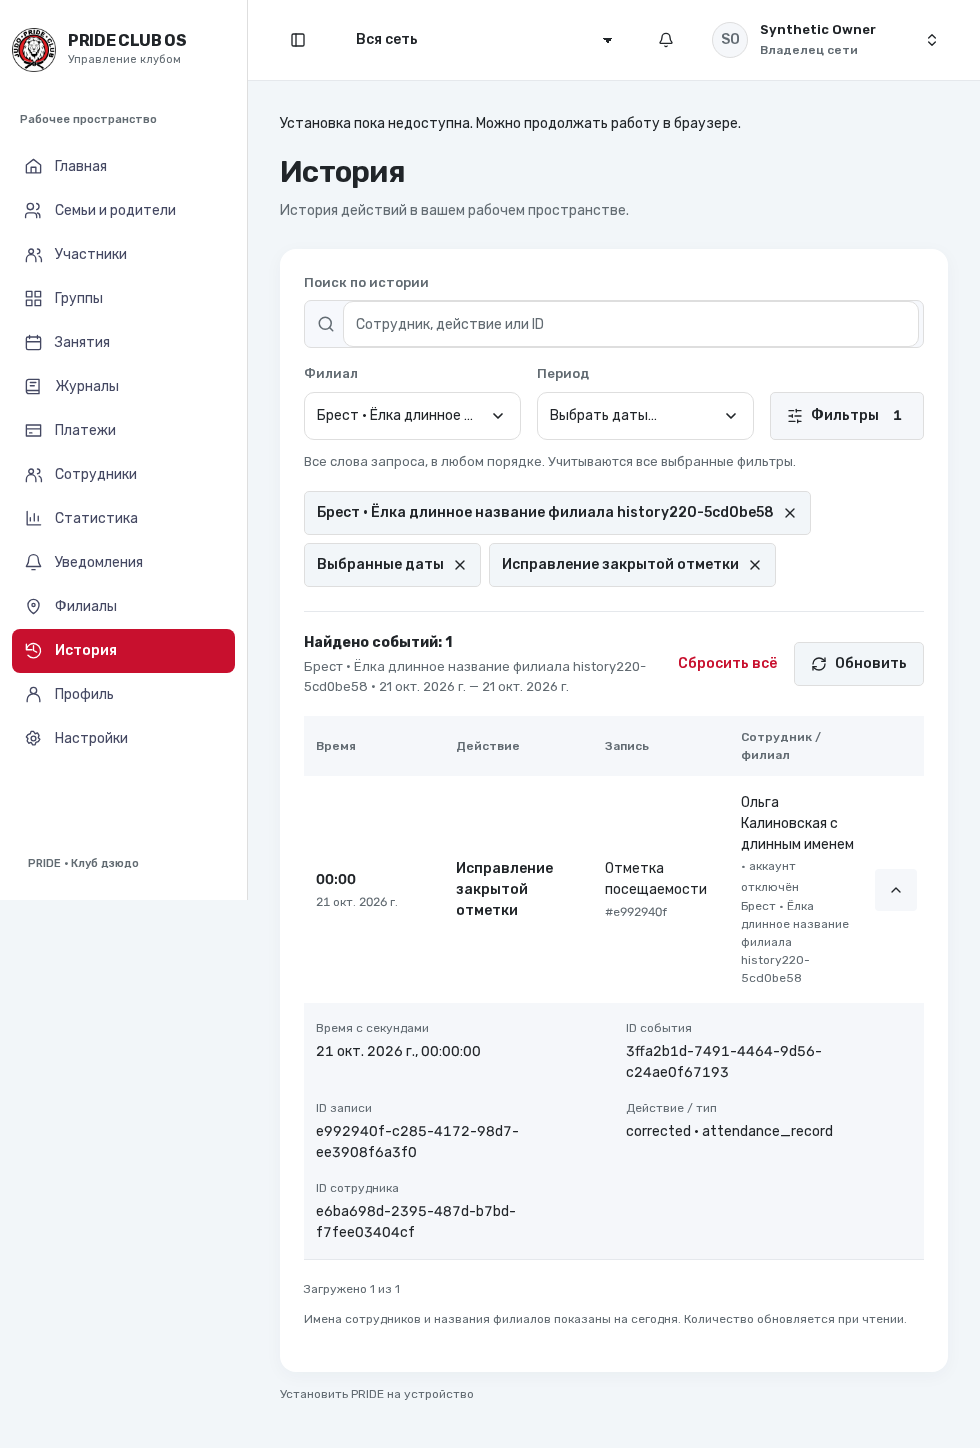
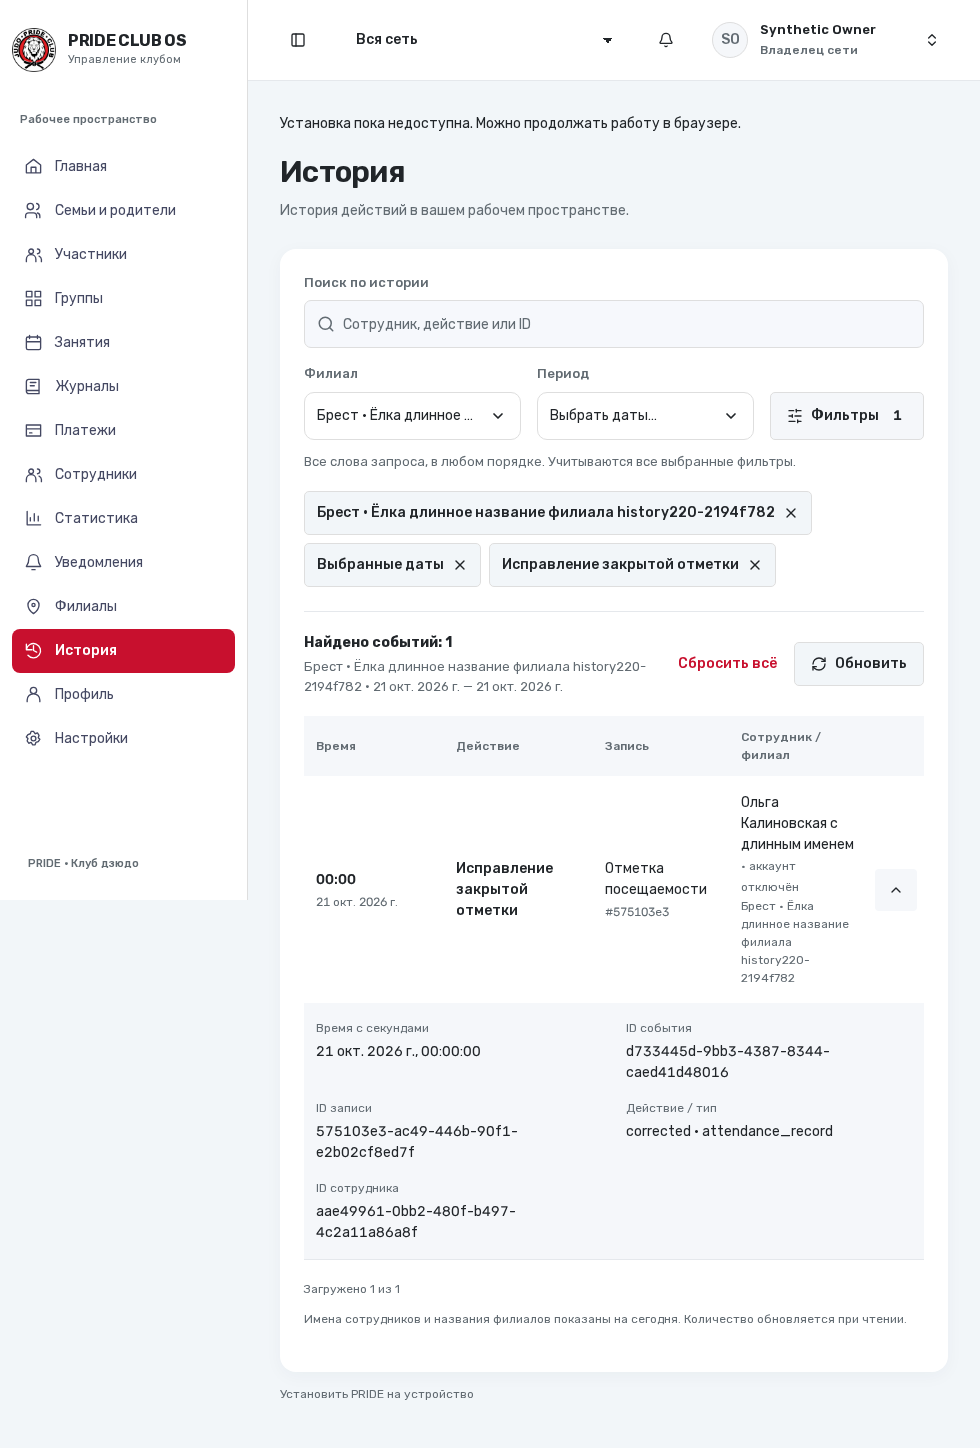
fix(audit): keep one search field and record final browser evidence

diff --git a/frontend/src/features/audit/audit.css b/frontend/src/features/audit/audit.css
@@ -9,7 +9,7 @@
 .audit-history input::placeholder { color: var(--pride-text-secondary); opacity: 1; }
 .audit-search-field { display: flex; align-items: center; height: 48px; min-width: 0; gap: 8px; padding: 0 4px 0 12px; border: 1px solid var(--pride-border); border-radius: 7px; background: var(--pride-surface-search, var(--pride-surface-subtle)); color: var(--pride-text-secondary); }
 .audit-search-field > svg { width: 18px; height: 18px; flex-shrink: 0; }
-.audit-history .audit-search-field input { appearance: none; -webkit-appearance: none; height: 46px; min-height: 46px; padding: 10px 0; width: 0; flex: 1; border: 0; border-radius: 0; background: transparent; box-shadow: none; }
+.audit-history .audit-search-field input[type='search'] { appearance: none; -webkit-appearance: none; height: 46px; min-height: 46px; padding: 10px 0; width: 0; flex: 1; border: 0; border-radius: 0; background: transparent; box-shadow: none; }
 .audit-history .audit-search-field input:focus-visible { outline: none; box-shadow: none; }
 .audit-search-field:focus-within { outline: 2px solid var(--pride-brand); outline-offset: 3px; }
 .audit-search-field input::-webkit-search-cancel-button { appearance: none; -webkit-appearance: none; }

diff --git a/frontend/e2e/history_search.py b/frontend/e2e/history_search.py
@@ -137,6 +137,8 @@ try:
         audit.get_by_role('button',name='Подробнее о событии #'+target,exact=True).click()
         expect(audit.locator('.audit-detail-row')).to_contain_text(target)
         assert 'PRIVATE' not in audit.inner_text()
+        assert search.evaluate('n=>getComputedStyle(n).borderTopWidth')=='0px'
+        assert search.locator('..').evaluate('n=>n.getBoundingClientRect().height')==48
         assert audit.locator('.audit-details-toggle svg').first.evaluate('n=>getComputedStyle(n).transitionDuration')=='0s'
         # One batched visual/a11y pass, open/closed filters at all required widths.
         metrics=[]

diff --git a/docs/history-search-validation.md b/docs/history-search-validation.md
@@ -80,4 +80,13 @@ jsErrors=[]. [Снимки и измерения](../.impeccable/review/history2
 late responses/live revoke. В первой WebKit попытке новый harness установил hold
 до завершения предыдущего date request, заблокировав refresh; теперь ожидает
 строки/готовую кнопку до установки hold. Assertion/timeouts/retries не ослаблены.
-Финальные WebKit RD-04 и CI/main фиксируются при доставке; issue пока открыта.
+Адаптированный RD-04 WebKit26.5 также PASS; исходные неуспешные попытки сохранены.
+После retry harness ожидает исчезновение alert (завершённый успешный ответ),
+а не уже показанный пустой результат. Итоговые CI/main фиксируются при доставке.
+
+Точная доставка/CI и live завершение публикуются в [#220](https://github.com/NikishGum/JudeOSLite/issues/220).
+[Хеши production-исходников/метаданные](../.impeccable/review/history220/source-hashes.json)
+и [хеши доказательств](../.impeccable/review/history220/checksums.json) связывают
+последний пакет с кодом. После последней CSS-поправки отдельные shipping прогоны
+Chromium/WebKit снова PASS, включая border0 внутреннего поиска/outer48, все
+четыре ширины и те же функциональные assertions. Дальнейшей полировки нет.
